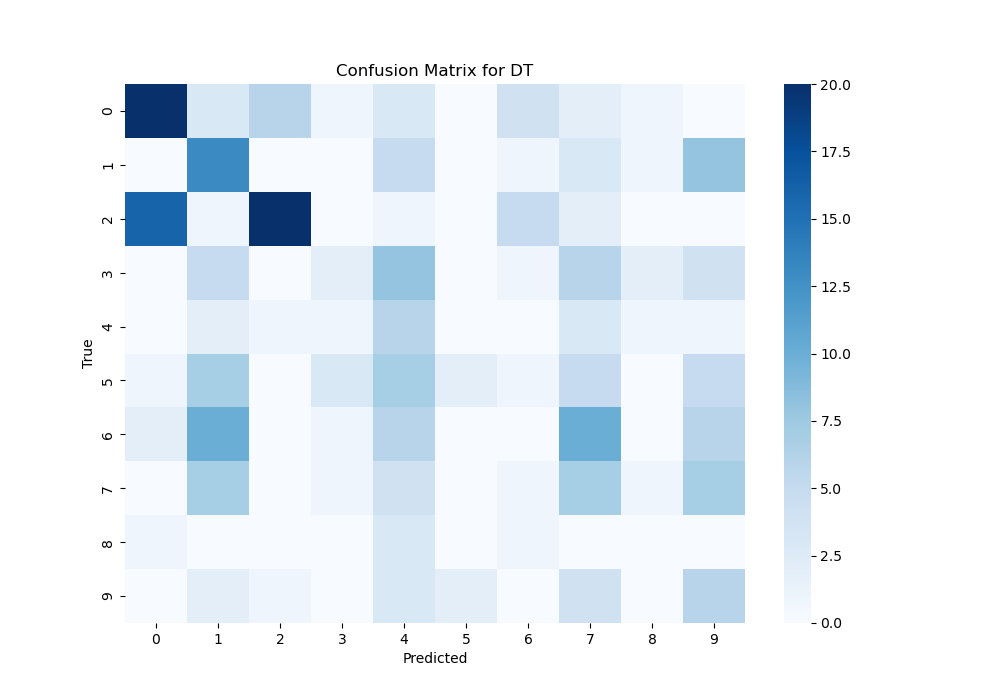
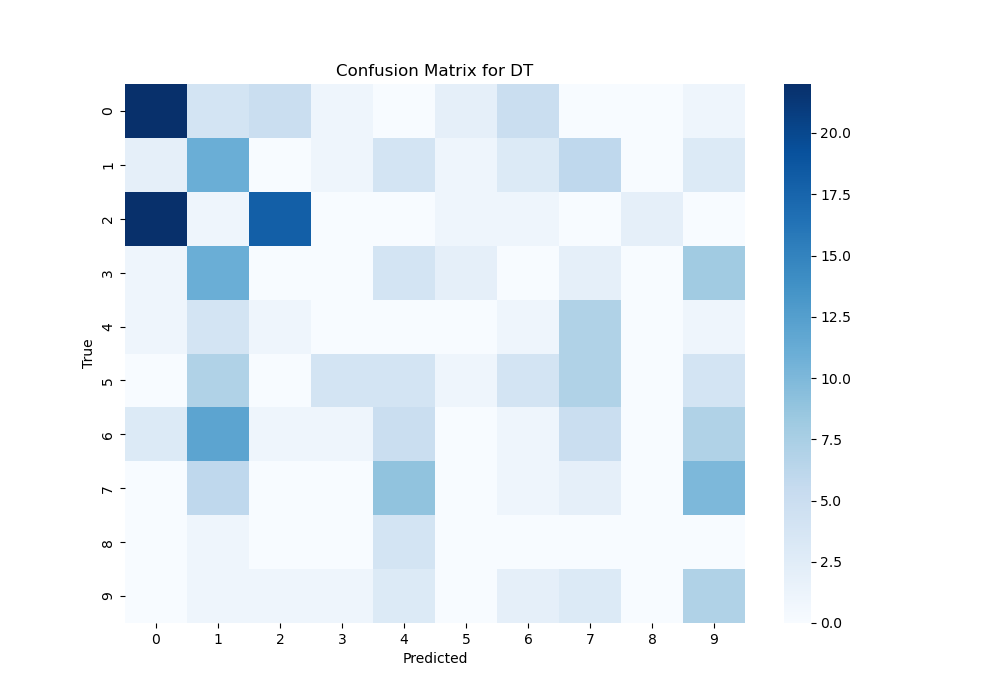
augm figures

diff --git a/test_model/classifier.py b/test_model/classifier.py
@@ -28,11 +28,12 @@ y_test = np.load("./test_model/data/y_eval_new.npy")
 X_train, X_val, y_train, y_val = train_test_split(X, y, test_size=0.2, random_state=42)
 
 # --------------------------------------////////////// NEW Augmentation
+"""
 X_train = np.load("./test_model/data/X_train_norm_augm.npy")
 X_val = np.load("./test_model/data/X_val_norm_augm.npy")
 y_train = np.load("./test_model/data/y_train_norm_augm.npy")
 y_val = np.load("./test_model/data/y_val_norm_augm.npy")
-
+"""
 
 print(f"X_train Shape: {X_train.shape}")
 print(f"y_train : {y_train.shape}")
@@ -80,6 +81,18 @@ for clf_name, clf in classifiers.items():
     y__[clf_name] = y_pred
     acc = np.sum(y__[clf_name] == y_val) / len(y_pred)
     print(f"{clf_name: >15}: {100*acc:.2f}%")
+
+    # plot the confusion matrix
+    cm = confusion_matrix(y_val, y_pred)
+
+    plt.figure(figsize=(10, 7))
+    ax = sns.heatmap(cm, annot=False, fmt="d", cmap="Blues")
+    plt.xlabel("Predicted")
+    plt.ylabel("True")
+    plt.title(f"Confusion Matrix for {clf_name}")
+    # plt.savefig(f"CM_{clf_name}_SFFS_RF150.png")
+    plt.show()
+
 
 # in test set
 y__ = dict()
